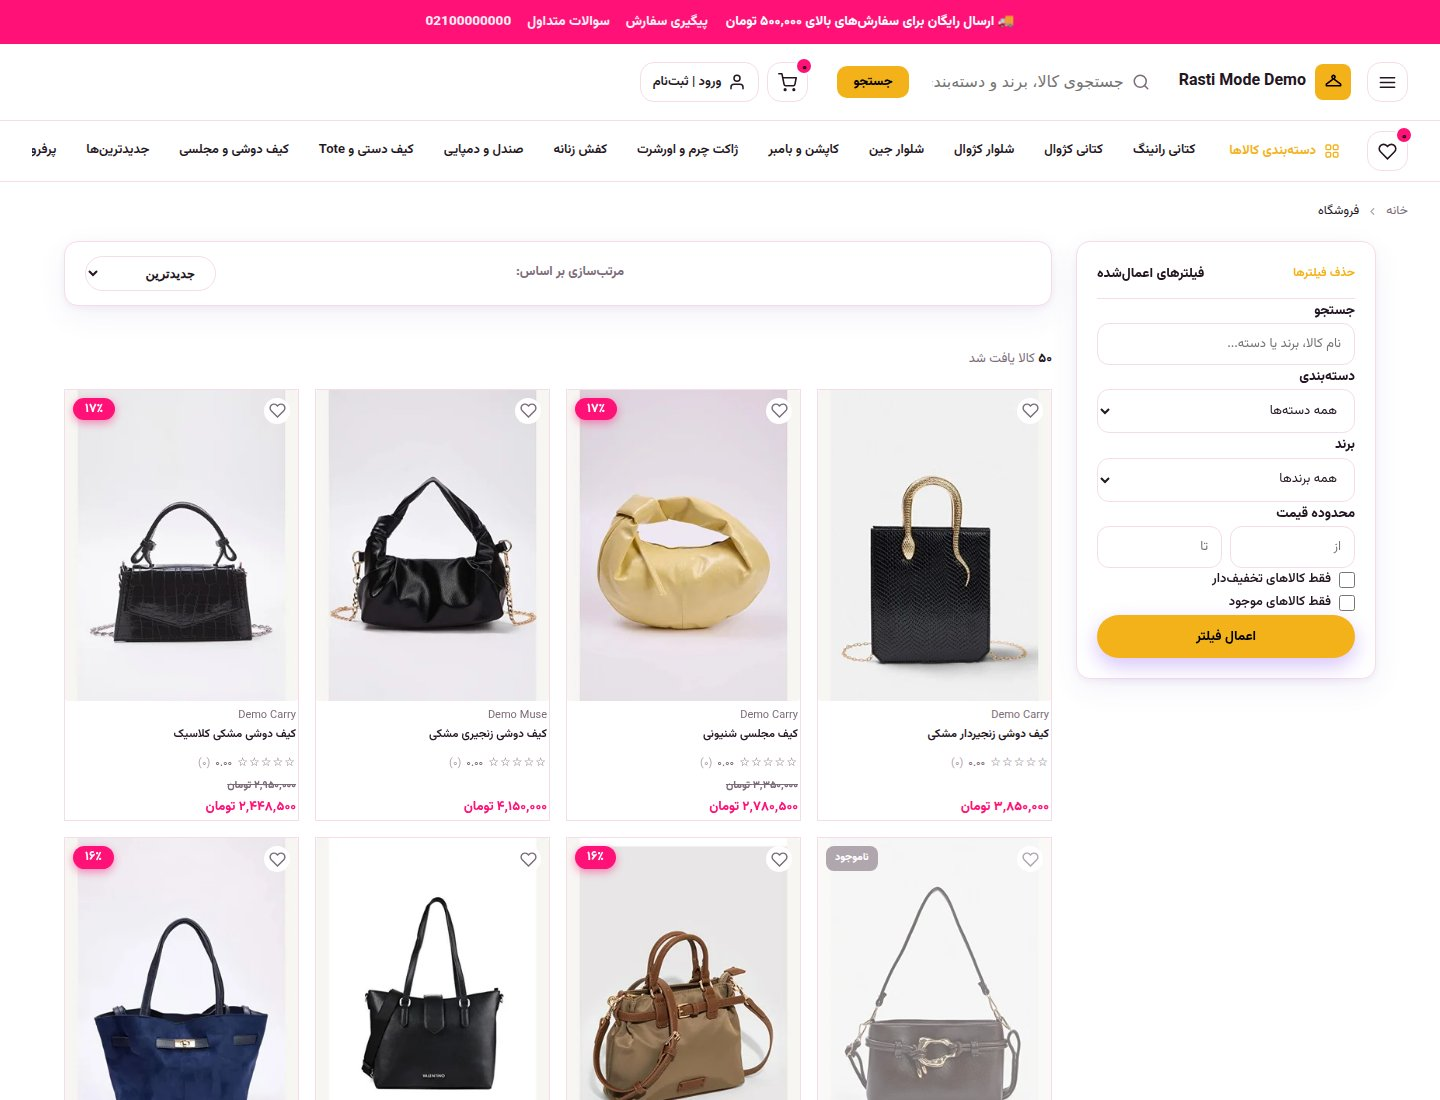
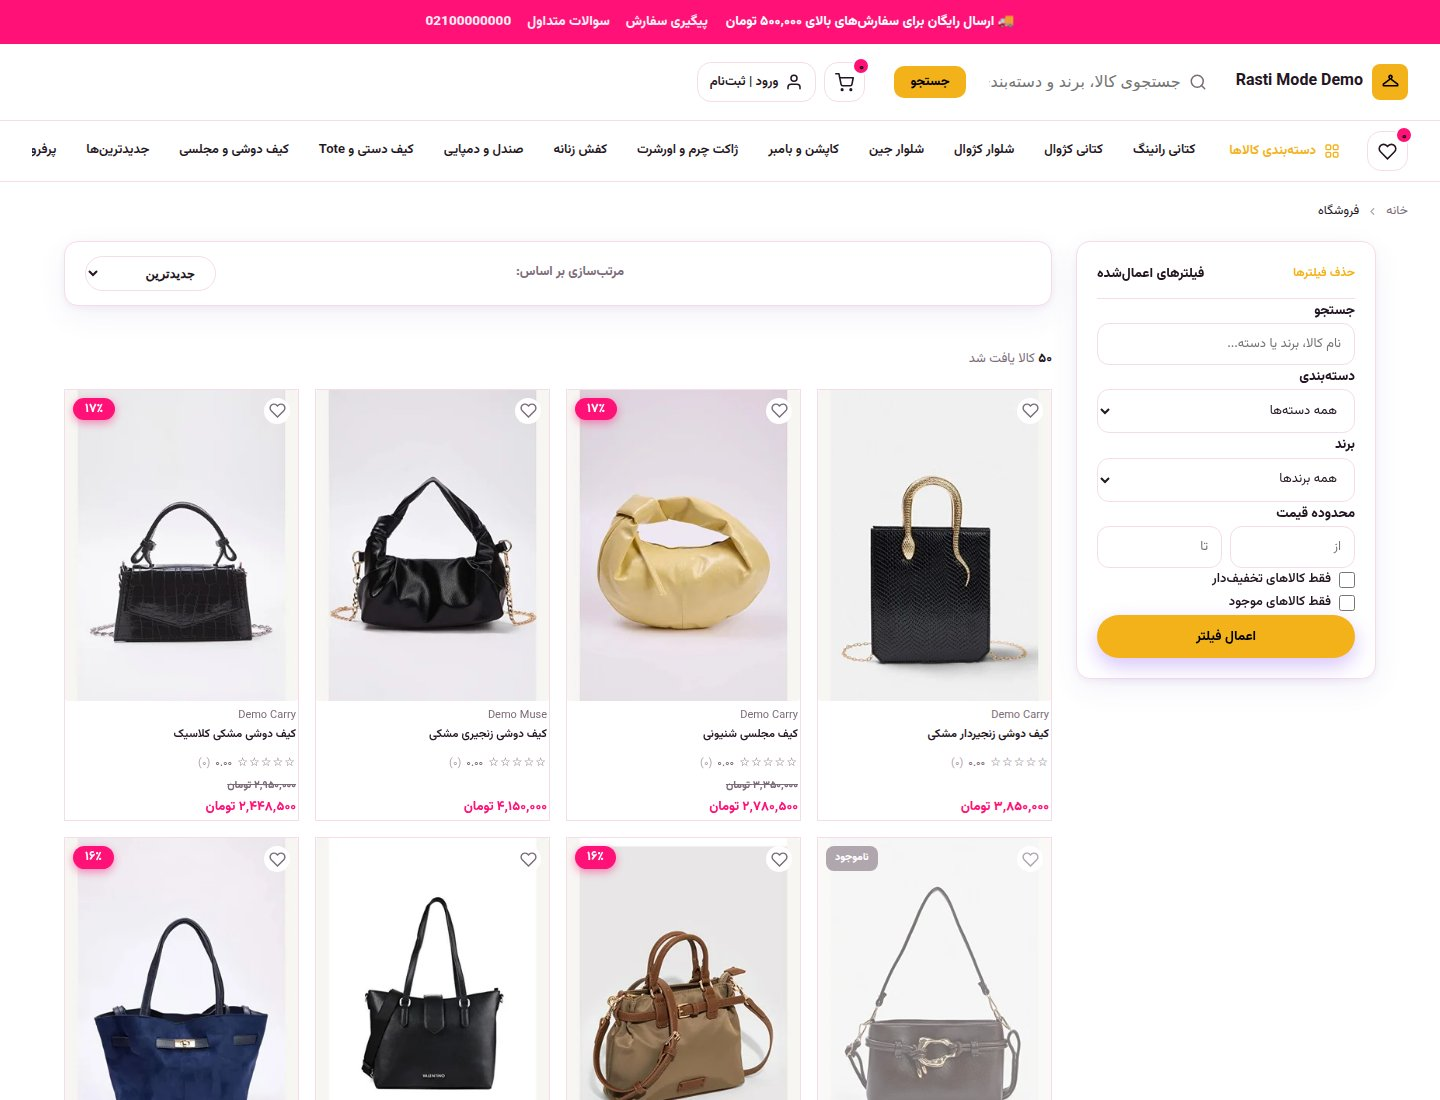
Micro-fix pass: hero polish, mosaic fill, header/hamburger fix
Six targeted merchant-reported fixes on fashion_promo_catalog Home only.

1) Hero too tall: aspect-ratio 1600/760 -> 1600/684 (~10% shorter).

2) Hero image read as a small isolated product in an empty panel:
   regenerated the composite with the product scaled to ~96% of canvas
   height (was ~86%) and the copy zone narrowed 32%->28%, so the photo
   fills noticeably more of the section.

3) Hero must auto-slide: fashion_lifestyle_hero now supports an optional
   settings.slides list (3 slides here, each a distinct real product
   composite + headline/subtitle/CTA), auto-rotating via the exact same
   Alpine.js next/prev/start/stop + enter/leave transition contract the
   existing product_spotlight_slider already uses in product_section.html
   -- reused, not reinvented. An absent settings.slides falls back to the
   previous single-image behavior unchanged. Root cause of an interim
   regression caught before commit: the multi-slide markup needs each
   slide absolutely positioned to stack for cross-fade, which no longer
   contributes to the container's height -- moved the aspect-ratio onto
   .fashion-hero-inner instead of the (now absolutely positioned) <img>.

4) Category mosaic tiles should fill more fully: reverted Part 2D's
   70%-inset/object-fit:contain treatment back to a full object-fit:cover
   fill, per this pass's explicit, more specific request that the tiles
   read as "bold and full" rather than diluted.
[…]

Changed region(s): [[0.4375, 0.0309, 1.0, 0.0927]]

diff --git a/apps/catalog/static/css/home.css b/apps/catalog/static/css/home.css
@@ -915,8 +915,13 @@ html[data-sfb-density="compact"][data-sfb-type-scale="normal"] .rcontainer .sec-
    its own colored studio backdrop; more inset padding (70% vs. the
    previous 92%) visibly dilutes that color's dominance within the tile,
    without needing a different (unavailable, ID-free) image source. */
-.category-mosaic-media{aspect-ratio:1/1;border-radius:8px;overflow:hidden;background:#f6f4f5;display:grid;place-items:center}
-.category-mosaic-media img{width:70%;height:70%;object-fit:contain}
+/* Micro-fix pass — merchant: the mosaic tiles should feel "bold and
+   full", the image filling the whole block, not floating with a wide
+   neutral margin (reverses Part 2D's 70%-inset dilution, which traded
+   fullness for less studio-background color dominance -- the merchant's
+   later, more specific request wins). */
+.category-mosaic-media{aspect-ratio:1/1;border-radius:8px;overflow:hidden;background:#f6f4f5}
+.category-mosaic-media img{width:100%;height:100%;object-fit:cover}
 .category-mosaic-fallback{font-size:30px}
 @media(max-width:1000px){
   .category-fashion-mosaic{grid-template-columns:repeat(3,1fr)}
@@ -963,13 +968,27 @@ html[data-sfb-density="compact"][data-sfb-type-scale="normal"] .rcontainer .sec-
    around a single product photo, replacing the previous two-photo
    side-by-side composite that read as "two catalog photos", not a
    campaign visual. */
-.fashion-hero{margin-bottom:6px}
-.fashion-hero-inner{position:relative;border-radius:16px;overflow:hidden;background:var(--bg)}
-.fashion-hero-media{display:block;width:100%;height:auto;aspect-ratio:1600/760}
+/* Micro-fix pass — merchant: hero too tall (-~10%), image reads as a
+   small isolated product floating in an empty panel. Height reduced
+   1600/760 -> 1600/684 (~10% shorter); the composite images themselves
+   were also regenerated with the product scaled to ~96% of canvas height
+   (was ~86%) and the copy zone narrowed 32%->28%, so the photo genuinely
+   fills more of the section. */
+.fashion-hero{margin-bottom:6px;position:relative}
+/* The aspect-ratio lives on .fashion-hero-inner (not .fashion-hero-media)
+   because the multi-slide markup positions each .fashion-hero-slide (and
+   its <img>) with position:absolute so slides can stack/cross-fade --
+   an absolutely-positioned descendant never contributes to its parent's
+   height, so the height must be established here instead. The single-
+   slide fallback (a plain, non-absolute <img>) also fills this box via
+   width/height:100% below, so both paths render identically. */
+.fashion-hero-inner{position:relative;border-radius:16px;overflow:hidden;background:var(--bg);aspect-ratio:1600/684}
+.fashion-hero-media{display:block;width:100%;height:100%;object-fit:cover}
 .fashion-hero-copy{
   position:absolute;inset-inline-start:0;top:0;bottom:0;
-  width:32%;min-width:220px;display:flex;flex-direction:column;justify-content:center;
+  width:28%;min-width:200px;display:flex;flex-direction:column;justify-content:center;
   gap:10px;padding-inline-start:clamp(16px,4%,56px);padding-inline-end:16px;
+  z-index:2;
 }
 .fashion-hero-eyebrow{font-size:12px;font-weight:800;color:var(--pink);letter-spacing:.02em}
 .fashion-hero-copy h1{font-size:clamp(20px,2.3vw,30px);font-weight:900;line-height:1.3;color:var(--ink);margin:0}
@@ -978,10 +997,38 @@ html[data-sfb-density="compact"][data-sfb-type-scale="normal"] .rcontainer .sec-
   align-self:flex-start;background:var(--violet);color:var(--brand-primary-fg,#fff);
   font-weight:800;font-size:12.5px;padding:10px 22px;border-radius:var(--button-radius,999px);
 }
+/* Micro-fix pass — auto-rotating campaign slider. Same Alpine.js
+   next/prev/start/stop + enter/leave transition contract as the existing
+   ``product_spotlight_slider`` in product_section.html (reused, not
+   reinvented); ``prefers-reduced-motion`` still disables all transitions
+   platform-wide via base.css, so this never fights that setting. */
+.fashion-hero-slide{position:absolute;inset:0}
+.fashion-hero-enter{transition:opacity .5s ease}
+.fashion-hero-enter-start{opacity:0}
+.fashion-hero-enter-end{opacity:1}
+.fashion-hero-leave{transition:opacity .5s ease}
+.fashion-hero-leave-start{opacity:1}
+.fashion-hero-leave-end{opacity:0}
+.fashion-hero-dots{position:absolute;bottom:14px;inset-inline-start:0;right:0;display:flex;justify-content:center;gap:7px;z-index:3}
+.fashion-hero-dots button{width:8px;height:8px;border-radius:50%;background:rgba(20,14,20,.22);border:0;padding:0;transition:.2s}
+.fashion-hero-dots button.active{background:var(--pink);width:22px;border-radius:5px}
 @media(max-width:860px){
-  .fashion-hero-inner{border-radius:14px}
+  /* Micro-fix pass — the copy used to be a plain sibling of a single,
+     non-absolute <img> and could simply stack below it in flow on
+     mobile. The multi-slide markup nests copy INSIDE each absolutely-
+     positioned .fashion-hero-slide (needed for desktop cross-fade
+     stacking), so "stack below in flow" no longer applies cleanly on
+     mobile without restructuring the slide markup itself. Anchoring the
+     copy to the bottom with a light scrim behind it keeps it legible
+     over any slide image without that restructuring, and behaves
+     identically for the single-slide fallback (whose copy sits in the
+     same box). */
+  .fashion-hero-inner{border-radius:14px;aspect-ratio:4/3}
   .fashion-hero-copy{
-    position:static;width:auto;padding:16px 14px 4px;background:var(--bg);
+    inset-inline-start:0;inset-inline-end:0;top:auto;bottom:0;width:auto;
+    justify-content:flex-end;padding:18px 14px 16px;
+    background:linear-gradient(to top,rgba(255,255,255,.94),rgba(255,255,255,.8) 65%,transparent);
   }
-  .fashion-hero-media{aspect-ratio:4/3;object-fit:cover;object-position:left}
+  .fashion-hero-media{object-position:left}
+  .fashion-hero-dots{bottom:6px}
 }

diff --git a/apps/storefront_builder/templates/storefront_builder/sections/fashion_lifestyle_hero.html b/apps/storefront_builder/templates/storefront_builder/sections/fashion_lifestyle_hero.html
@@ -2,13 +2,66 @@
 {% comment %}
 Site-target-overhaul Part 2B (ibolak reference) — self-contained campaign
 hero. Unlike ``hero_banner``/``image_slider``, this never reads the shared
-Store-wide ``HeroSlide`` model — its background is a fixed static asset (a
-deterministic composite of real Rasti Mode Demo product photography, no
+Store-wide ``HeroSlide`` model — its background is a fixed set of
+deterministic composites of real Rasti Mode Demo product photography (no
 merchant photo upload required), and its headline/subtitle/CTA are plain
-editable text with sensible defaults. ``settings`` keys: ``title``,
-``subtitle``, ``cta_label``, ``cta_url`` (all optional).
+editable text with sensible defaults.
+
+Micro-fix pass — merchant: "hero must auto-slide". ``settings.slides`` is
+an optional list of ``{image, eyebrow, title, subtitle, cta_label,
+cta_url}`` dicts; each ``image`` is a filename under this template's own
+static folder. An absent/empty ``settings.slides`` falls back to the
+previous single-slide behavior (this section's original ``settings`` keys
+read directly), so any other adopter of this section that never set
+``slides`` keeps rendering exactly as before — no migration required.
+
+The auto-rotation itself reuses the EXACT same Alpine.js contract as the
+existing ``product_spotlight_slider`` in product_section.html
+(active/count/timer/next/prev/start/stop, the same enter/leave transition
+class names pattern) rather than inventing a second carousel mechanism.
 {% endcomment %}
+{% with slides=settings.slides|default:None %}
 <section class="section fashion-hero">
+  {% if slides %}
+  <div class="fashion-hero-inner"
+       x-data="{ active: 0, count: {{ slides|length }}, timer: null,
+                  next() { this.active = (this.active + 1) % this.count },
+                  prev() { this.active = (this.active - 1 + this.count) % this.count },
+                  start() { if (this.count > 1 && !this.timer) this.timer = setInterval(() => this.next(), {{ settings.carousel_interval_ms|default:4500 }}) },
+                  stop() { if (this.timer) { clearInterval(this.timer); this.timer = null } } }"
+       x-init="start()"
+       @mouseenter="stop()"
+       @mouseleave="start()">
+    {% for slide in slides %}
+    <div class="fashion-hero-slide"
+         x-show="active === {{ forloop.counter0 }}"
+         x-cloak
+         x-transition:enter="fashion-hero-enter"
+         x-transition:enter-start="fashion-hero-enter-start"
+         x-transition:enter-end="fashion-hero-enter-end"
+         x-transition:leave="fashion-hero-leave"
+         x-transition:leave-start="fashion-hero-leave-start"
+         x-transition:leave-end="fashion-hero-leave-end">
+      <img class="fashion-hero-media" src="{% static 'storefront_builder/fashion_promo_catalog/'|add:slide.image %}" alt="" loading="{% if forloop.first %}eager{% else %}lazy{% endif %}">
+      <div class="fashion-hero-copy">
+        <p class="fashion-hero-eyebrow">{{ slide.eyebrow|default:"کالکشن تازه" }}</p>
+        <h1>{{ slide.title|default:"وقت تخفیف ویژهی راستی مد!" }}</h1>
+        <p class="fashion-hero-subtitle">{{ slide.subtitle|default:"جدیدترین پوشاک و کیف و کفش فصل — با تخفیفهای ویژه، همین امروز کشف کن." }}</p>
+        {% if slide.cta_label|default:"مشاهده کالکشن" %}
+        <a class="fashion-hero-cta" href="{{ slide.cta_url|default:view_all_url|default:'/products/' }}">{{ slide.cta_label|default:"مشاهده کالکشن" }}</a>
+        {% endif %}
+      </div>
+    </div>
+    {% endfor %}
+    {% if slides|length > 1 %}
+    <div class="fashion-hero-dots" aria-label="اسلایدهای کمپین">
+      {% for slide in slides %}
+      <button type="button" @click="active={{ forloop.counter0 }}; start()" :class="{ 'active': active === {{ forloop.counter0 }} }" aria-label="اسلاید {{ forloop.counter }}"></button>
+      {% endfor %}
+    </div>
+    {% endif %}
+  </div>
+  {% else %}
   <div class="fashion-hero-inner">
     <img class="fashion-hero-media" src="{% static 'storefront_builder/fashion_promo_catalog/campaign_hero.webp' %}" alt="" loading="eager">
     <div class="fashion-hero-copy">
@@ -20,4 +73,6 @@ editable text with sensible defaults. ``settings`` keys: ``title``,
       {% endif %}
     </div>
   </div>
+  {% endif %}
 </section>
+{% endwith %}

diff --git a/apps/storefront_builder/static/css/storefront_builder.css b/apps/storefront_builder/static/css/storefront_builder.css
@@ -3650,6 +3650,21 @@ a.sfb-v3-component-item,
 .gh-shell--promo .gh-announce .wrap{height:44px;justify-content:center;gap:18px;font-weight:800;font-size:13.5px}
 .gh-shell--promo .gh-announce-links a{color:#fff;font-weight:800}
 .gh--promo .gh-row-main{display:flex;align-items:center;gap:16px;height:76px}
+/* Micro-fix pass — merchant: "hamburger does nothing" + header
+   composition feels displaced. Root cause: .gh-row-nav (the row the
+   burger toggles) is a "shared desktop+mobile nav bar, always visible"
+   by this codebase's own established convention (see the comment on
+   .gh--marketplace .gh-row-nav above) -- it only actually collapses
+   below the 680px breakpoint, so on desktop the always-visible burger
+   toggled nothing a merchant could see, AND it sat as the very first
+   (rightmost, in RTL) element ahead of the logo, displacing it from its
+   natural anchor position. Hiding the burger above the breakpoint where
+   it is genuinely functional fixes both: desktop no longer shows a dead
+   control, and the logo becomes the rightmost anchor exactly like the
+   reference. The mobile toggle itself (confirmed working: click removes
+   .gh-nav-hidden, the existing .gh--promo .gh-row-nav:not(.gh-nav-hidden)
+   rule below then reveals it) is completely unchanged. */
+.gh--promo .gh-burger{display:none}
 .gh--promo .gh-promo-search{flex:1;max-width:720px}
 .gh--promo .gh-promo-search .gh-search{height:48px;border-radius:24px;background:var(--gh-bg)}
 .gh--promo .gh-row-nav{background:var(--gh-surface);border-top:1px solid var(--gh-border)}
@@ -3665,6 +3680,7 @@ a.sfb-v3-component-item,
   .gh--promo .gh-promo-search{max-width:none}
 }
 @media(max-width:680px){
+  .gh--promo .gh-burger{display:inline-flex}
   .gh--promo .gh-row-nav{display:none}
   .gh--promo .gh-row-nav:not(.gh-nav-hidden){display:block;position:relative}
   .gh--promo .gh-logo-text small{display:none}

diff --git a/apps/storefront_builder/layout_preset_registry.py b/apps/storefront_builder/layout_preset_registry.py
@@ -904,7 +904,12 @@ register_layout_preset(LayoutPresetDefinition(
     # composition now also includes the new ``catalog_product_wall``
     # section (several additional real category/collection product rows),
     # for the same "content genuinely changed" reason as every prior bump.
-    version="4",
+    #
+    # Micro-fix pass — bumped again: fashion_lifestyle_hero's settings now
+    # carry a real ``slides`` list (auto-rotating campaign slider, new
+    # composite images), a real content change for the same reason as
+    # every prior bump.
+    version="5",
     is_ready_template=True,
     label_fa="کاتالوگِ پوشاک و پیشنهادها",
     description_fa="چیدمانِ کاتالوگمحور با بنرهایِ تبلیغاتیِ متعدد — مناسبِ پوشاک/مدی که مرتب کمپین/تخفیف اجرا میکند.",
@@ -973,7 +978,32 @@ register_layout_preset(LayoutPresetDefinition(
         # product groups under different headings.
         "home": (
             PresetSectionEntry("category_grid", settings={"display_mode": "fashion_flat", "item_limit": 12}),
-            PresetSectionEntry("fashion_lifestyle_hero"),
+            # Micro-fix pass — merchant: "hero must auto-slide". Three
+            # slides, each a real deterministic Pillow composite of
+            # different brand-free Rasti Mode Demo product photos (own
+            # distinct headline/subtitle copy per slide) -- reuses the
+            # section's existing ``slides`` list support (see
+            # fashion_lifestyle_hero.html), never a new section type.
+            PresetSectionEntry("fashion_lifestyle_hero", settings={"slides": [
+                {
+                    "image": "campaign_hero.webp", "eyebrow": "کالکشن تازه",
+                    "title": "وقت تخفیف ویژهی راستی مد!",
+                    "subtitle": "جدیدترین پوشاک و کیف و کفش فصل — با تخفیفهای ویژه، همین امروز کشف کن.",
+                    "cta_label": "مشاهده کالکشن",
+                },
+                {
+                    "image": "campaign_hero_2.webp", "eyebrow": "پیشنهاد ویژه",
+                    "title": "استایل پاییزی، قیمت شگفتانگیز!",
+                    "subtitle": "ژاکت و شلوار جین منتخب فصل — همین حالا با بهترین قیمت سفارش بده.",
+                    "cta_label": "مشاهده محصولات",
+                },
+                {
+                    "image": "campaign_hero_3.webp", "eyebrow": "تازههای فروشگاه",
+                    "title": "کالکشن جدید کاپشن رسید!",
+                    "subtitle": "طرحها و رنگبندیهای تازه — برای هر سبک، یک انتخاب مناسب.",
+                    "cta_label": "مشاهده کالکشن",
+                },
+            ]}),
             PresetSectionEntry("category_grid", settings={"display_mode": "fashion_mosaic", "item_limit": 8}),
             _fashion_promo_row("تخفیفهای ویژه", "discounted"),
             _fashion_promo_row("جدیدترینها", "newest"),
